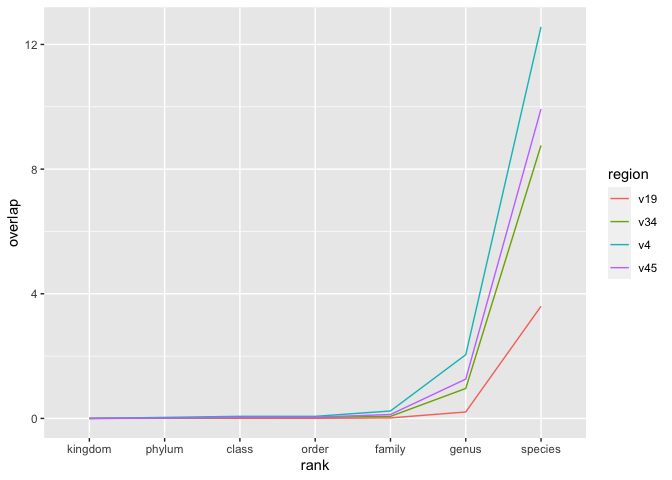
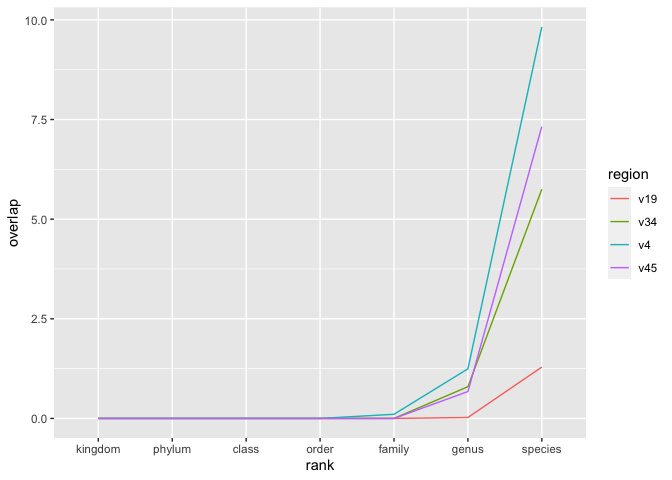
Randomly subset N genomes from each species, addresses #31

diff --git a/exploratory/2020-10-21-asv-taxa-overlap.md b/exploratory/2020-10-21-asv-taxa-overlap.md
@@ -39,8 +39,37 @@ Perhaps we can control for relatedness in a future episode, but for
 today, I want to answer this question for any two taxa from the same
 rank.
 
+    # set RNG seed to Pat's birthday!
+    set.seed(19760620)
+    threshold <- 3
+
+    # metadata_asv - species - genome_id
+    subsample_species <- metadata_asv %>%
+        select(genome_id, species) %>%
+    # return the distinct/unique rows
+        distinct() %>%
+    # group_by the species
+        group_by(species) %>%
+    # slice_sample on each species for N genomes
+        slice_sample(n=threshold) %>%
+        ungroup()
+
+    good_species <- subsample_species %>% 
+    # count number of genoems in each species
+        count(species) %>%
+    # return species that have N genomes / filter out species with fewer than N genomes
+        filter(n == threshold) %>%
+        select(species)
+
+    # going back to original list of species/genomes and return genome_ids from
+    # species with N genomes
+
+    subsampled_genomes <- inner_join(subsample_species, good_species,  by="species") %>%
+        select(genome_id)
+
+
     # metadata_asv - input data
-    overlap_data <- metadata_asv %>%
+    overlap_data <- inner_join(metadata_asv, subsampled_genomes, by="genome_id") %>%
     # - focus on taxonomic ranks - kingdom to species, asv, and region
         select(-genome_id, -count, -strain) %>%
     # - make data frame tidy
@@ -74,12 +103,12 @@ rank.
     overlap_data %>%
         filter(rank == "species") %>% kable
 
-| region | rank    |   overlap |
-|:-------|:--------|----------:|
-| v19    | species |  3.599863 |
-| v34    | species |  8.759673 |
-| v4     | species | 12.564060 |
-| v45    | species |  9.927921 |
+| region | rank    |  overlap |
+|:-------|:--------|---------:|
+| v19    | species | 1.289538 |
+| v34    | species | 5.752754 |
+| v4     | species | 9.824199 |
+| v45    | species | 7.323232 |
 
 ### Conclusions
 
